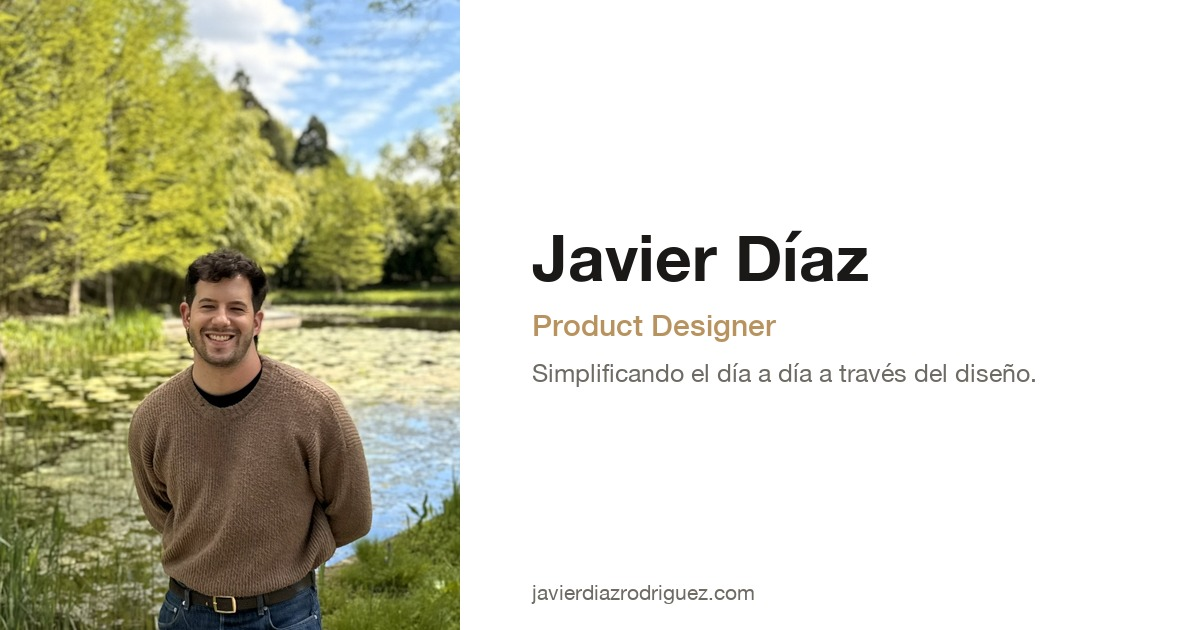
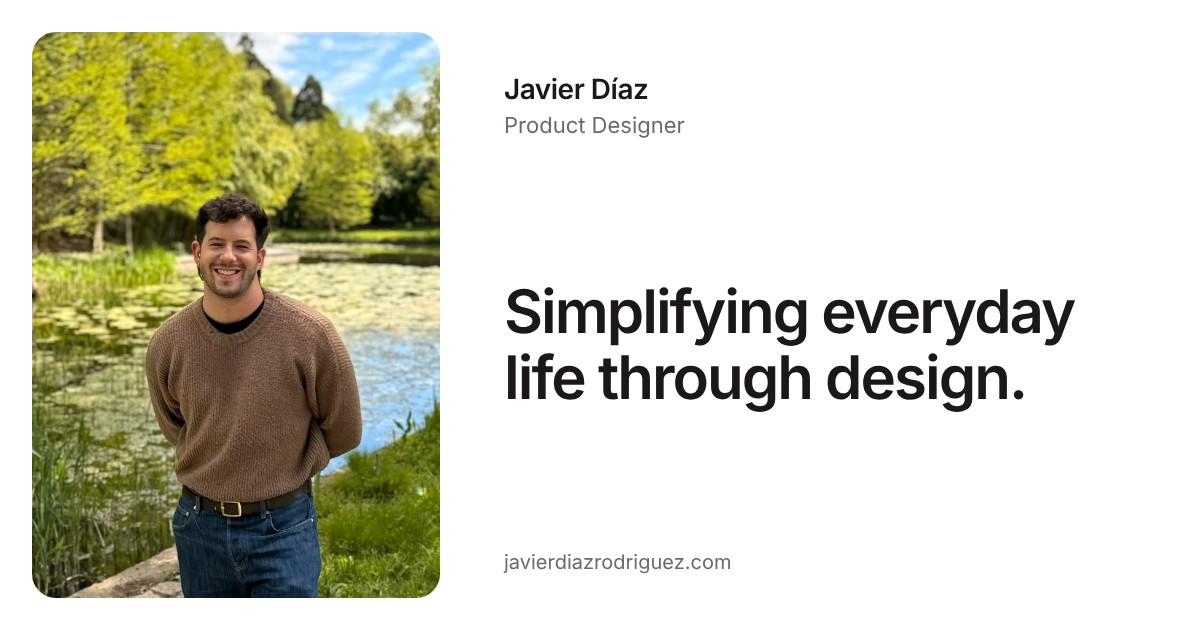
New share image in the current site style (white, Inter, no brown accents)
Claude-Session: https://claude.ai/code/session_01TzBzfV87exMVWc8euzdj78

diff --git a/contacto.html b/contacto.html
@@ -11,13 +11,13 @@
 <meta property="og:url" content="https://javierdiazrodriguez.com/contacto.html">
 <meta property="og:title" content="Contacto · Javier Díaz">
 <meta property="og:description" content="Contacta con Javier Díaz, Product Designer — copia el email, escribe por LinkedIn o lee lo que dicen las personas con las que ha trabajado.">
-<meta property="og:image" content="https://javierdiazrodriguez.com/og-image.jpg">
+<meta property="og:image" content="https://javierdiazrodriguez.com/og-image.jpg?v=2">
 <meta property="og:image:width" content="1200">
 <meta property="og:image:height" content="630">
 <meta name="twitter:card" content="summary_large_image">
 <meta name="twitter:title" content="Contacto · Javier Díaz">
 <meta name="twitter:description" content="Contacta con Javier Díaz, Product Designer — copia el email, escribe por LinkedIn o lee lo que dicen las personas con las que ha trabajado.">
-<meta name="twitter:image" content="https://javierdiazrodriguez.com/og-image.jpg">
+<meta name="twitter:image" content="https://javierdiazrodriguez.com/og-image.jpg?v=2">
 
 <!-- Tailwind CDN -->
 <script>

diff --git a/index.html b/index.html
@@ -11,13 +11,13 @@
 <meta property="og:url" content="https://javierdiazrodriguez.com/">
 <meta property="og:title" content="Javier Díaz — Product Designer">
 <meta property="og:description" content="Portfolio de Javier Díaz, Product Designer con 4 años de experiencia diseñando productos digitales.">
-<meta property="og:image" content="https://javierdiazrodriguez.com/og-image.jpg">
+<meta property="og:image" content="https://javierdiazrodriguez.com/og-image.jpg?v=2">
 <meta property="og:image:width" content="1200">
 <meta property="og:image:height" content="630">
 <meta name="twitter:card" content="summary_large_image">
 <meta name="twitter:title" content="Javier Díaz — Product Designer">
 <meta name="twitter:description" content="Portfolio de Javier Díaz, Product Designer con 4 años de experiencia diseñando productos digitales.">
-<meta name="twitter:image" content="https://javierdiazrodriguez.com/og-image.jpg">
+<meta name="twitter:image" content="https://javierdiazrodriguez.com/og-image.jpg?v=2">
 
 <!-- Tailwind CDN -->
 <script>

diff --git a/sobre-mi.html b/sobre-mi.html
@@ -11,13 +11,13 @@
 <meta property="og:url" content="https://javierdiazrodriguez.com/sobre-mi.html">
 <meta property="og:title" content="Sobre mí · Javier Díaz">
 <meta property="og:description" content="Sobre Javier Díaz, Product Designer — experiencia, testimonios, premios y educación.">
-<meta property="og:image" content="https://javierdiazrodriguez.com/og-image.jpg">
+<meta property="og:image" content="https://javierdiazrodriguez.com/og-image.jpg?v=2">
 <meta property="og:image:width" content="1200">
 <meta property="og:image:height" content="630">
 <meta name="twitter:card" content="summary_large_image">
 <meta name="twitter:title" content="Sobre mí · Javier Díaz">
 <meta name="twitter:description" content="Sobre Javier Díaz, Product Designer — experiencia, testimonios, premios y educación.">
-<meta name="twitter:image" content="https://javierdiazrodriguez.com/og-image.jpg">
+<meta name="twitter:image" content="https://javierdiazrodriguez.com/og-image.jpg?v=2">
 
 <!-- Tailwind CDN -->
 <script>
